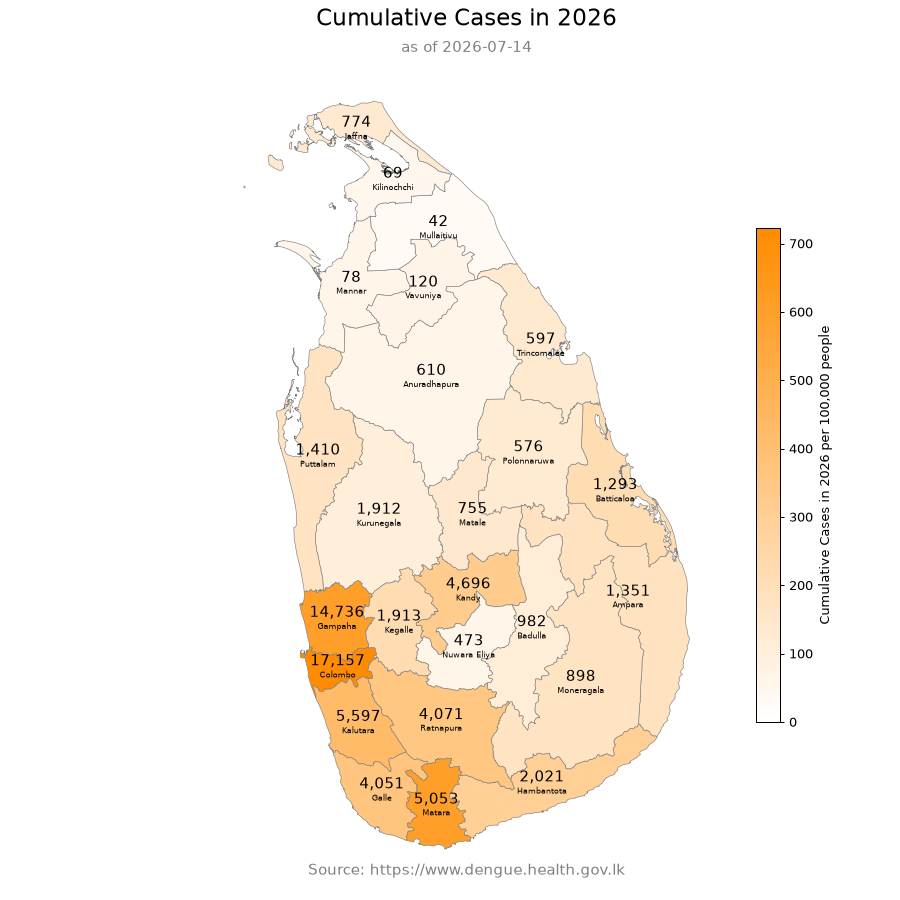
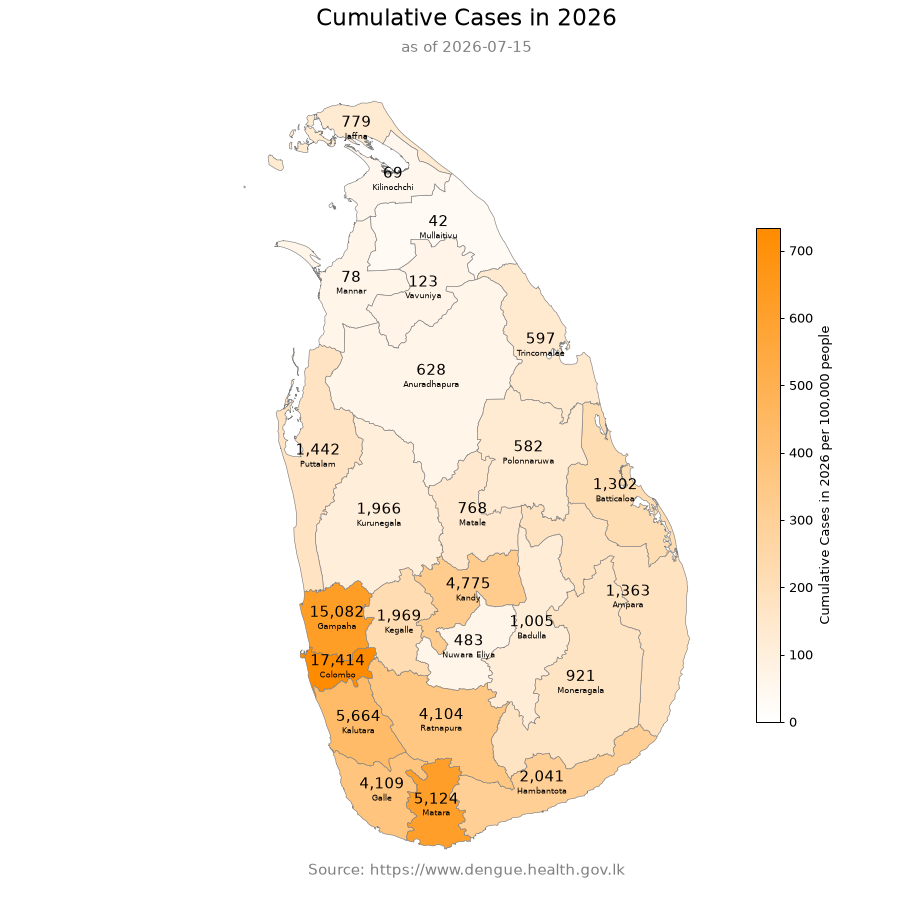
🤖 [pipeline.yml] 2026-07-16-0528

diff --git a/README.md b/README.md
@@ -273,6 +273,7 @@ As of 2026-07-05
 
 ### [National Dengue Control Unit - Daily Update](data/NDCUDaily)
 
+- [2026-07-15](data/NDCUDaily/2026/2026-07/2026-07-15)
 - [2026-07-14](data/NDCUDaily/2026/2026-07/2026-07-14)
 - [2026-07-13](data/NDCUDaily/2026/2026-07/2026-07-13)
 - [2026-07-12](data/NDCUDaily/2026/2026-07/2026-07-12)
